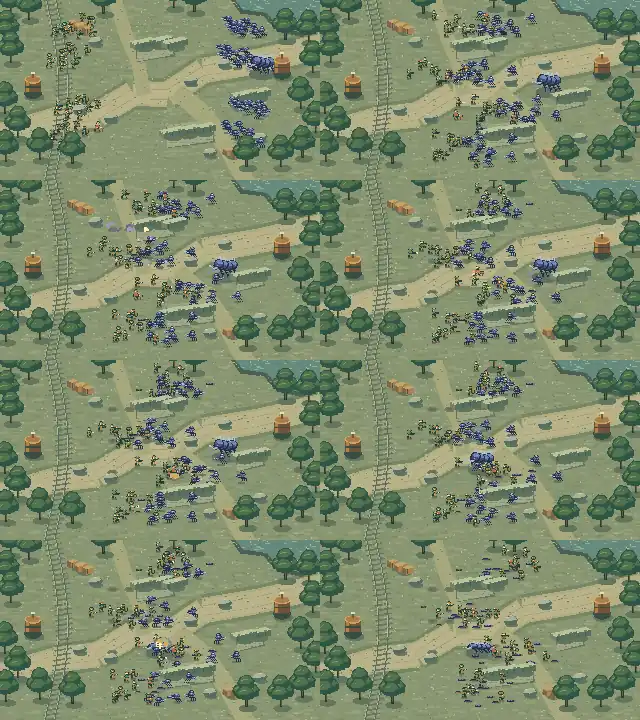
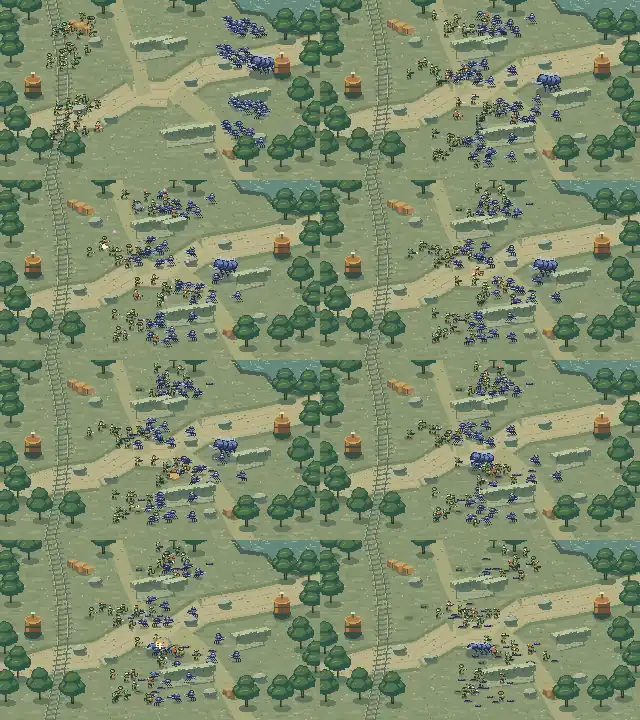
fix(webapp): align Emberwatch casualties with artillery and charge impacts

Changed region(s): [[0.1562, 0.3056, 0.2188, 0.3667], [0.7812, 0.8861, 0.8438, 0.9167], [0.75, 0.6417, 0.7812, 0.6722]]

diff --git a/apps/webapp/src/emberwatch/scene.ts b/apps/webapp/src/emberwatch/scene.ts
@@ -82,6 +82,11 @@ function position(id: number, time: number) {
 function direction(dx: number, dy: number) {
   return Math.abs(dy) > Math.abs(dx) * 0.8 ? dy > 0 ? 1 : 3 : dx > 0 ? 0 : 2;
 }
+export function sporeImpact(index: number) {
+  const targetId = [16, 29, 42, 3, 20, 25, 30][index]!;
+  const time = 16.2 + index * 0.22;
+  return { ...position(targetId, time), time, targetId };
+}
 export function unitsAt(time: number): Unit[] {
   const t = Math.max(0, Math.min(DURATION, time)); const result: Unit[] = [];
   for (let id = 0; id < 88; id++) {
@@ -90,7 +95,7 @@ export function unitsAt(time: number): Unit[] {
     const rank = Math.floor(i / 4);
     const group = i % 4;
     const kind = team ? rank >= 8 ? 5 : 4 : rank < 4 ? 1 : rank >= 9 ? 2 : 0;
-    const deathAt = team ? i % 5 === 0 ? 12.4 + i * 0.11 : group === 2 && rank < 5 ? 23.65 + rank * 0.05 : 34.7 + i * 0.041 : i % 13 === 3 ? 16.2 + group * 0.22 : i === 21 ? 31 : 100;
+    const deathAt = team ? i % 5 === 0 ? 12.4 + i * 0.11 : group === 2 && rank < 5 ? 23.65 + rank * 0.05 : 34.7 + i * 0.041 : i % 13 === 3 ? 16.2 + group * 0.22 : i === 6 ? 30.3 : i === 30 ? 30.6 : 100;
     const dead = t >= deathAt;
     const point = position(id, Math.min(t, deathAt));
     const before = position(id, Math.max(0, Math.min(t, deathAt) - 0.08));
@@ -166,8 +171,8 @@ export function renderBattle(ctx: CanvasRenderingContext2D, assets: Assets, time
   const qp = project(queen.x, queen.y);
   // Ground effects precede all upright geometry; projected shadows anchor every footpoint.
   for (let i = 0; i < 7; i++) {
-    const impact = 16 + i * 0.22; const p = project(225 + i % 3 * 34, 132 + Math.floor(i / 3) * 95);
-    if (t > impact) {
+    const impact = sporeImpact(i); const p = project(impact.x, impact.y);
+    if (t > impact.time) {
       pixelDisc(ctx, p.x, p.y, 10, "#747d62", 0.5); pixelDisc(ctx, p.x, p.y, 6, "#67705c", 0.45);
     }
   }
@@ -219,9 +224,10 @@ export function renderBattle(ctx: CanvasRenderingContext2D, assets: Assets, time
     }
   }
   for (let i = 0; i < 7; i++) {
-    const start = 13.6 + i * 0.22;
-    const end = 16 + i * 0.22;
-    const target = project(225 + i % 3 * 34, 132 + Math.floor(i / 3) * 95);
+    const impact = sporeImpact(i);
+    const start = impact.time - 2.4;
+    const end = impact.time;
+    const target = project(impact.x, impact.y);
     if (t >= start && t < end) {
       const p = (t - start) / (end - start);
       const spitter = unitsAt(start).filter((u) => u.kind === 5)[i]!;
@@ -250,8 +256,9 @@ export function renderBattle(ctx: CanvasRenderingContext2D, assets: Assets, time
     }
   }
   // Three rocketeer teams converge on the moving queen, each on its own arc.
+  const rocketeers = units.filter((u) => u.kind === 2 && !u.dead);
   for (let i = 0; i < 8; i++) {
-    const start = 32.3 + i * 0.18, end = 34.8 + i * 0.1; const source = units.filter((u) => u.kind === 2 && !u.dead)[i % 8];
+    const start = 32.3 + i * 0.18, end = 34.8 + i * 0.1; const source = rocketeers[i % rocketeers.length];
     const impact = queenAt(end); const target = project(impact.x, impact.y, 17);
     if (source && t > start && t < end) {
       const p = (t - start) / (end - start);

diff --git a/apps/webapp/src/emberwatch/scene.test.ts b/apps/webapp/src/emberwatch/scene.test.ts
@@ -1,5 +1,5 @@
 import { describe, expect, it } from "vitest";
-import { CHAPTERS, DURATION, PROPS, chapterAt, project, queenAt, unitsAt } from "./scene.ts";
+import { CHAPTERS, DURATION, PROPS, chapterAt, project, queenAt, sporeImpact, unitsAt } from "./scene.ts";
 describe("Emberwatch elevated battlefield", () => {
   it("seeks repeatably with 89 individually identified units plus the queen", () => {
     const before = unitsAt(16.7);
@@ -51,5 +51,19 @@ describe("Emberwatch elevated battlefield", () => {
     expect(end.filter((u) => !u.dead).every((u) => u.pose === "idle")).toBe(true);
     expect(queenAt(DURATION).dead).toBe(true);
     expect(chapterAt(DURATION)).toBe(CHAPTERS[5]);
+  });
+  it("connects artillery and charge casualties to the actual impact positions", () => {
+    for (let i = 0; i < 4; i++) {
+      const impact = sporeImpact(i);
+      const casualty = unitsAt(impact.time + 0.001).find((u) => u.id === impact.targetId)!;
+      expect(casualty.dead).toBe(true);
+      expect(Math.hypot(casualty.x - impact.x, casualty.y - impact.y)).toBeLessThan(1);
+    }
+    for (const [id, time] of [[6, 30.3], [30, 30.6]]) {
+      const queen = queenAt(time!);
+      const casualty = unitsAt(time!).find((u) => u.id === id)!;
+      expect(casualty.dead).toBe(true);
+      expect(Math.hypot(casualty.x - queen.x, casualty.y - queen.y)).toBeLessThan(22);
+    }
   });
 });
